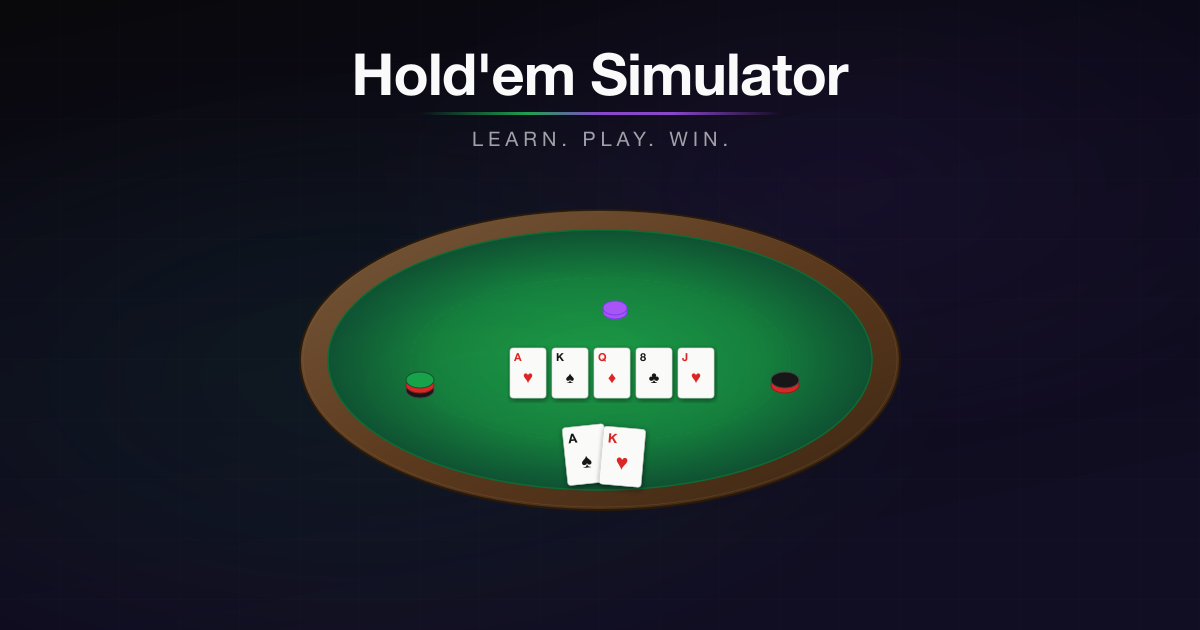
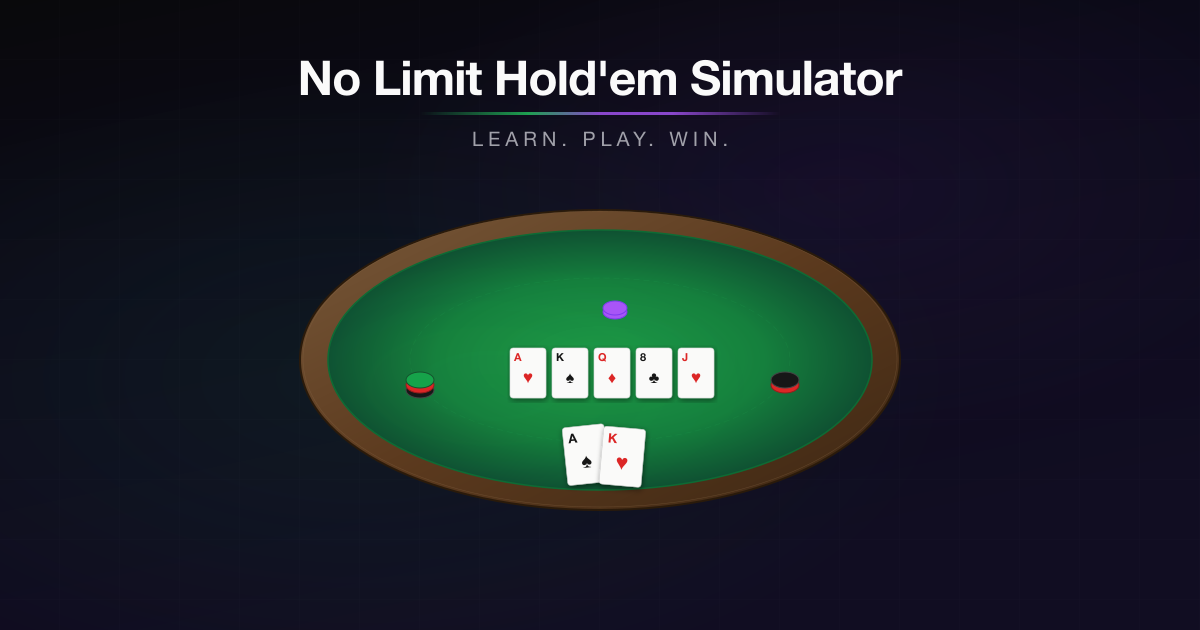
Rename to 'No Limit Hold'em Simulator' everywhere — title, meta, OG image, README

Changed region(s): [[0.2467, 0.0603, 0.7708, 0.1508]]

diff --git a/nuxt.config.ts b/nuxt.config.ts
@@ -17,17 +17,17 @@ export default defineNuxtConfig({
 
   app: {
     head: {
-      title: 'Hold\'em Simulator',
+      title: 'No Limit Hold\'em Simulator',
       meta: [
         { name: 'description', content: 'Browser-based No-Limit Texas Hold\'em poker simulator with intelligent bot opponents, real-time hand analysis, and comprehensive stats. Learn poker strategy through practice.' },
-        { property: 'og:title', content: 'Hold\'em Simulator' },
+        { property: 'og:title', content: 'No Limit Hold\'em Simulator' },
         { property: 'og:description', content: 'Learn poker strategy with intelligent bots, real-time equity, outs, pot odds, and hand ranges.' },
         { property: 'og:image', content: '/og-image.png' },
         { property: 'og:image:width', content: '1200' },
         { property: 'og:image:height', content: '630' },
         { property: 'og:type', content: 'website' },
         { name: 'twitter:card', content: 'summary_large_image' },
-        { name: 'twitter:title', content: 'Hold\'em Simulator' },
+        { name: 'twitter:title', content: 'No Limit Hold\'em Simulator' },
         { name: 'twitter:description', content: 'Learn poker strategy with intelligent bots, real-time equity, outs, pot odds, and hand ranges.' },
         { name: 'twitter:image', content: '/og-image.png' },
       ],

diff --git a/app/components/SetupScreen.vue b/app/components/SetupScreen.vue
@@ -251,7 +251,7 @@ function handleStart() {
     <div class="flex items-center justify-between">
       <div />
       <h1 class="text-3xl font-bold text-center text-white">
-        Hold'em Simulator
+        No Limit Hold'em Simulator
       </h1>
       <SupabaseStatus />
     </div>

diff --git a/holdem.config.ts b/holdem.config.ts
@@ -1,5 +1,5 @@
 /**
- * Hold'em Simulator — Single Source of Truth Configuration
+ * No Limit Hold'em Simulator — Single Source of Truth Configuration
  *
  * All tunable game parameters live here. Import this config
  * wherever values are needed rather than hardcoding numbers.

diff --git a/README.md b/README.md
@@ -1,6 +1,6 @@
-# Hold'em Simulator
+# No Limit Hold'em Simulator
 
-![Hold'em Simulator](app/public/og-image.png)
+![No Limit Hold'em Simulator](app/public/og-image.png)
 
 A browser-based No-Limit Texas Hold'em poker simulator with intelligent bot opponents, real-time hand analysis, and a comprehensive stats panel. Built for learning poker strategy through practice and observation.
 
